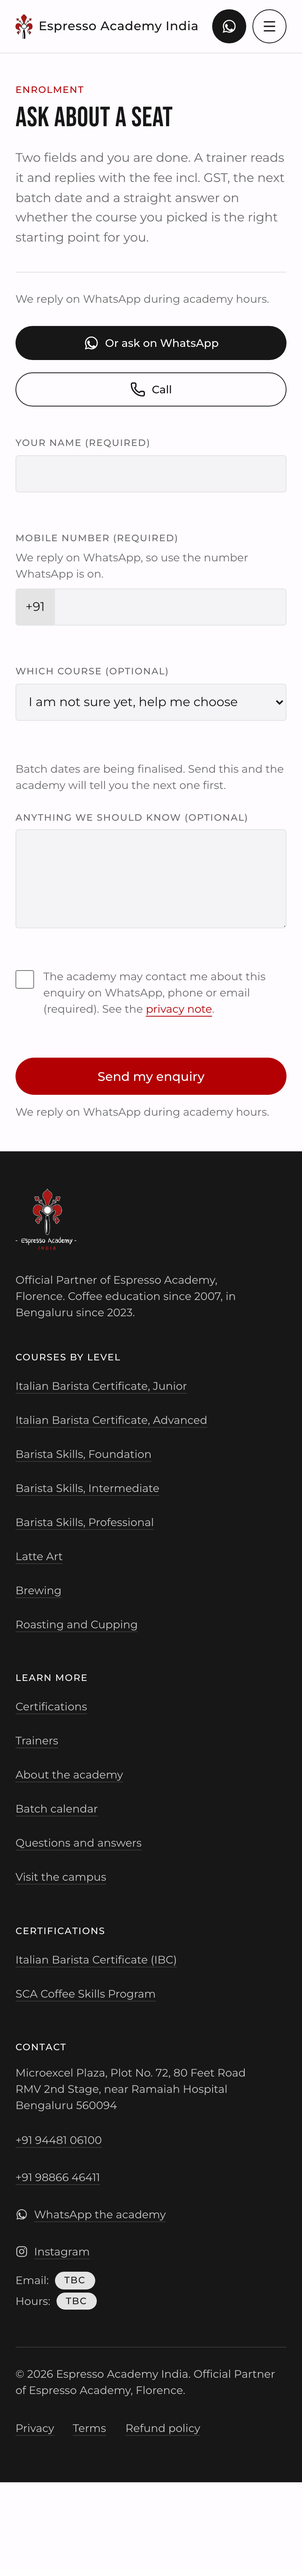
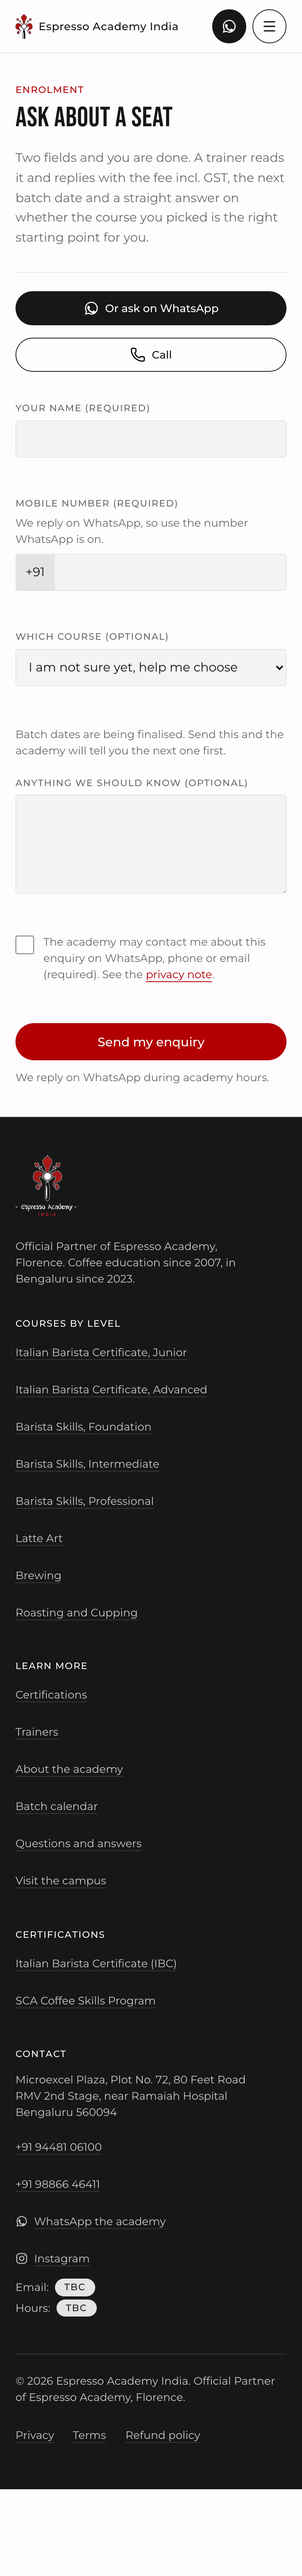
chore: deploy the draft and verify it on the deployment
Production deploy to the public alias, serving cc5c0f0. The alias rather than
a per-deployment preview URL because previews on this team sit behind Vercel
Authentication and 302 to a login, which a client review cannot use.

Verified against the deployment, not only localhost: every route 200, no
horizontal overflow at 360, 390, 768, 1024 or 1280, no forbidden colour pair,
every standalone tap target at least 44px. Spot-checked that the new build is
actually live rather than a cached one -- the SCA course page renders
"Programme", not "Certificate: SCA", and /courses renders the fee empty state.

Client screenshots re-taken from this build. The stale-build warning at the top
of STATUS.md is removed because it is no longer true, and the handover section
now describes a finished draft rather than an interrupted one.

Claude-Session: https://claude.ai/code/session_01PKkyfXqBTZ2mE7B6hishKC

diff --git a/docs/STATUS.md b/docs/STATUS.md
@@ -7,8 +7,9 @@ do. Updated at the end of every phase.
 
 Public, no login. Open it on a phone.
 
-> **This URL is serving an older build**, from before four rounds of design fixes. See
-> "Where this stands, and what to do next" below: redeploy before sending it to anyone.
+> **Up to date.** Deployed from `cc5c0f0` and verified on the deployment itself: every route
+> returns 200, nothing overflows at 360, 390, 768, 1024 or 1280, no forbidden colour pair renders,
+> and every standalone tap target clears 44px. Safe to send.
 
 A note on why that is the alias and not a `-git-`/hash preview URL: previews on this Vercel team
 are protected by Vercel Authentication, so a preview link asks the client to log in to Vercel
@@ -261,50 +262,53 @@ suite has a Laptop 1024 project beside the iPad Mini one.
 
 ### Phase 9: deploy
 
-- Deployed to Vercel under `social-hippi/espresso-academy-india`.
+- Deployed to Vercel under `social-hippi/espresso-academy-india`, serving `cc5c0f0`.
 - Canonicals, Open Graph images and JSON-LD `@id`s fall back to `NEXT_PUBLIC_VERCEL_URL`, so a
   preview describes itself rather than claiming production's URL.
-- Verified on the deployment: every route 200, no horizontal overflow at 390, no forbidden colour
-  pair, and Lighthouse mobile 90 to 96 Performance with 100 across Accessibility, Best Practices
-  and SEO.
+- `.vercelignore` holds back `.env*.local`, which pins `NEXT_PUBLIC_SITE_URL` to localhost and now
+  also carries a `VERCEL_OIDC_TOKEN`. Uploading it would point every canonical at a dev machine.
+- The `qa-runner` pass ran before deploying: typecheck, lint, build, 932 tests and the three
+  standing scripts all green; Lighthouse mobile Accessibility 100, Best Practices 100, SEO 100,
+  CLS 0 on all four measured routes.
+- Verified against the deployment itself, not just localhost: every route 200, no horizontal
+  overflow at **360, 390, 768, 1024 or 1280**, no forbidden colour pair, every standalone tap
+  target at least 44px. Client screenshots re-taken from this build into `docs/screens/preview-*.png`.
 
 
 ---
 
 ## Where this stands, and what to do next
 
-**Phase 8b is complete and the design gate is met.** The design-reviewer scores
+**All ten phases are complete.** The design gate is met: the design-reviewer scores
 **8.5 / 8.0 / 8.5 / 8.0** on `/`, `/courses`, a course page and `/about`, against a target of 8,
-with no critical or high finding left open. Phase 9 step 1 (the `qa-runner` pass) has been run.
-The work is on `main`.
+with no critical or high finding left open. The `qa-runner` pass is green on every command. The
+site is deployed and verified on the deployment itself. The work is on `main`.
 
-### The one thing to know first
+### The draft is deployed and nothing is outstanding
 
-**The deployed site is behind the code.** `https://espresso-academy-india.vercel.app` was last
-deployed before four rounds of design fixes. It still has, among other things, the 1024px header
-overflow, the 360px overflow on every route, no primary call to action between 768 and 1023, the
-unpadded skip link, and a certificate cell that reads `Certificate: SCA`.
+`https://espresso-academy-india.vercel.app` serves `cc5c0f0`. `docs/CLIENT-REVIEW.md` carries that
+same URL and needs no edit, so the link can go to the client as it stands.
 
-**Redeploy before showing anyone.** From the repo root:
+To redeploy after any further change, from the repo root:
 
 ```
-pnpm build && pnpm test:e2e     # confirm green first
-vercel deploy --prod --yes      # puts the current build on the public alias
+pnpm build && pnpm test:e2e                                    # confirm green first
+npx vercel deploy --prod --yes                                 # the public alias
+node scripts/check-overflow.mjs https://espresso-academy-india.vercel.app
+node scripts/preview-screens.mjs https://espresso-academy-india.vercel.app
 ```
 
-Then re-take the client screenshots, which are also from the older build:
+Run the three standing scripts against the deployment, not only against localhost. A per-deployment
+preview URL is not a substitute: those 302 to a Vercel login on this team, which is why the alias
+is the thing to share.
 
-```
-node scripts/preview-screens.mjs
-```
+### What the client's answers unblock
 
-### Immediate next steps, in order
-
-1. **Redeploy** (above). This is the only blocking item left.
-2. **Re-verify on the deployment**, not just locally: `node scripts/check-overflow.mjs <url>`,
-   `check-brand-contrast.mjs <url>`, `check-target-size.mjs <url>`.
-3. **Confirm the URL at the top of `docs/CLIENT-REVIEW.md`** and send it. The file is otherwise
-   written and needs no edits.
+Nothing in the "Needs client" table below blocks a build or a deploy; every row already has a
+visible TBC state. The two that change the most on arrival are the photography (item 15), which
+turns roughly a fifth of `/about` and every card frame from placeholder into content, and the fees
+and dates (items 1 and 4), which switch the `/courses` fee table, the spec strips and the sticky
+bar's context row back on by themselves.
 
 ### What is verified as of this commit
 
